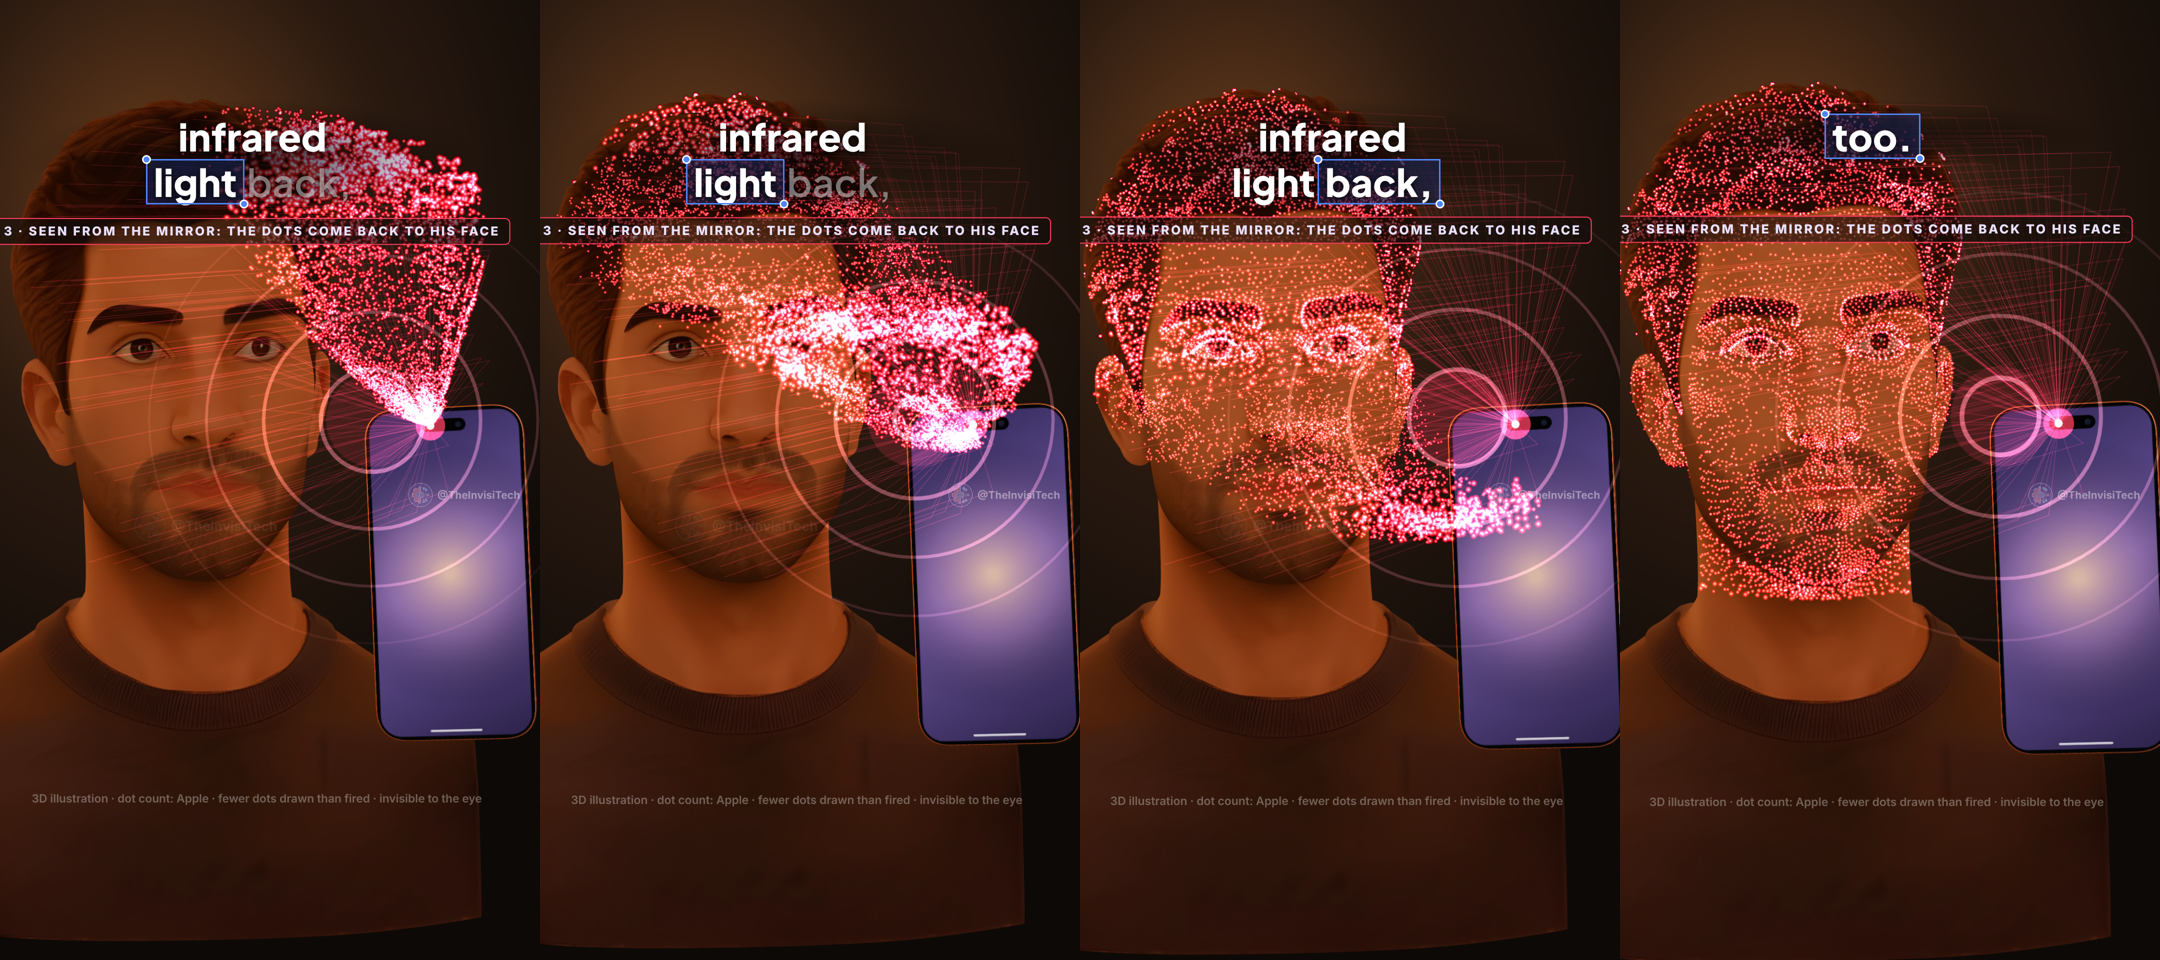
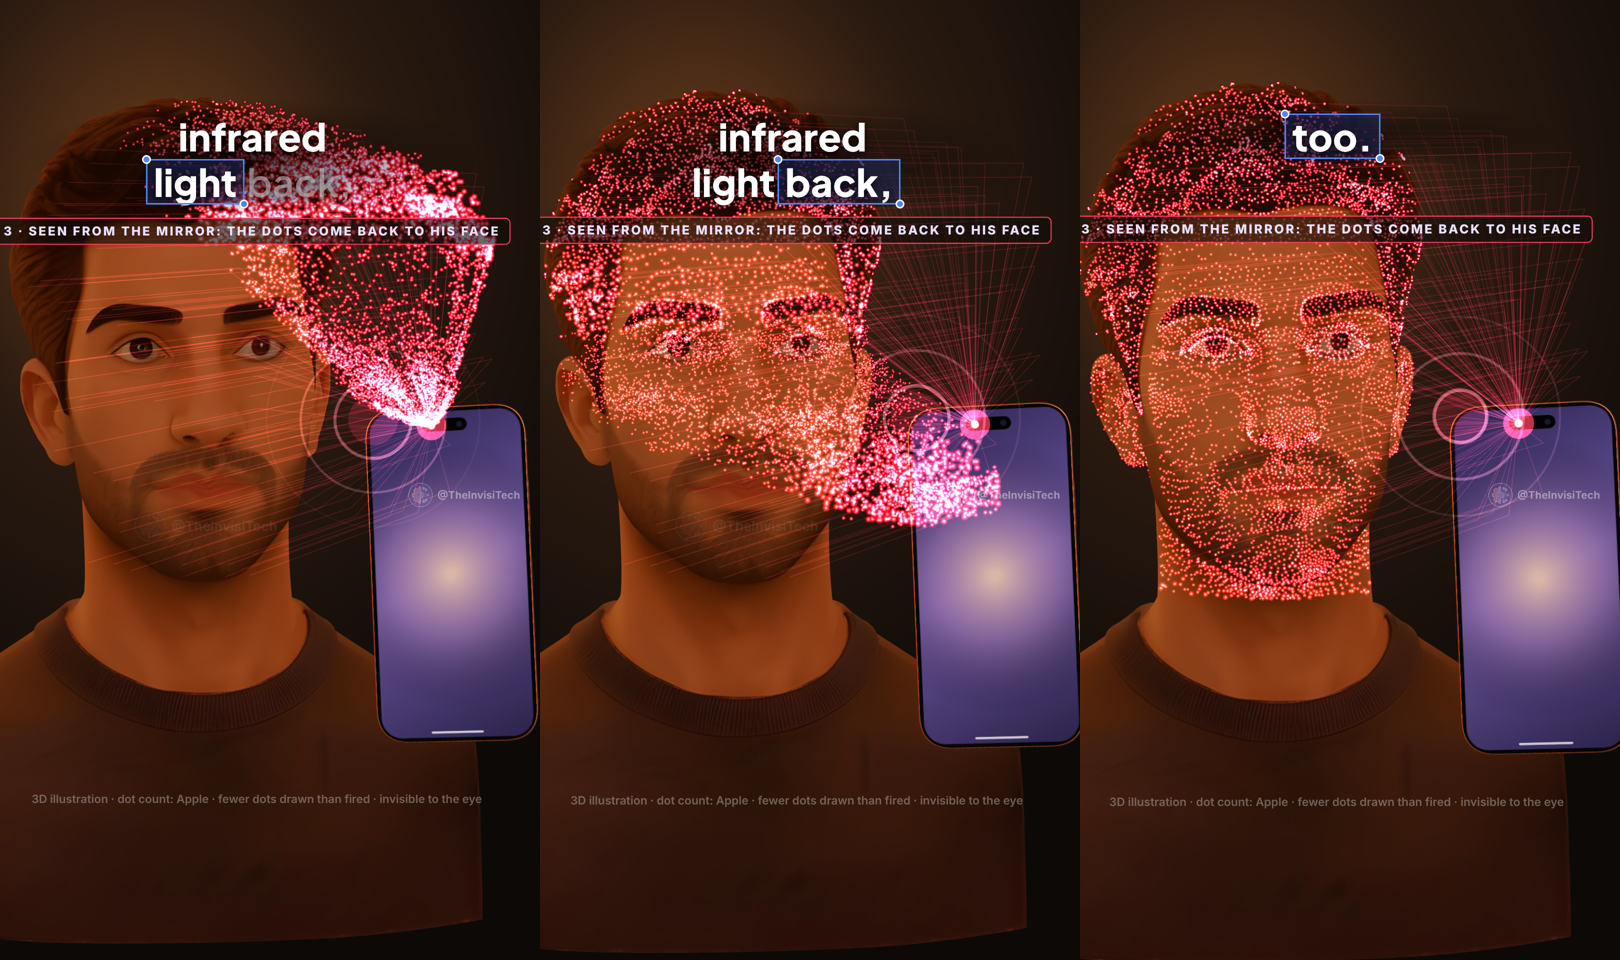
Mirror Short: smaller ripples at the bounce point
Claude-Session: https://claude.ai/code/session_01GXcKc5WnFrVWBsHLe8YpAy

diff --git a/face-id/mirror-short/src/scenes/Orbit3D.tsx b/face-id/mirror-short/src/scenes/Orbit3D.tsx
@@ -185,9 +185,9 @@ const Inner: React.FC<{ g: number; cyan?: number; pov?: number; cam: THREE.Persp
       <lineSegments geometry={rays}><lineBasicMaterial color={C.ir} transparent opacity={rayO} blending={THREE.AdditiveBlending} depthWrite={false} /></lineSegments>
       <points geometry={pts.geo} material={pts.mat} frustumCulled={false} />
       {/* reflecting waves on the glass: rings that spread out from where the light bounces, again and again */}
-      {pov !== undefined && pov > 8 && [0, 1, 2, 3].map((k) => { const u = (((pov - 8) / 22) + k / 4) % 1, r = 10 + 130 * u;
-        return <mesh key={k} position={[noseHit[0], noseHit[1], ZG]}><ringGeometry args={[r, r + 2.6 - 1.6 * u, 72]} /><meshBasicMaterial color="#ff8fa0" transparent opacity={0.6 * (1 - u) * ramp(pov, 8, 12)} blending={THREE.AdditiveBlending} depthWrite={false} side={THREE.DoubleSide} /></mesh>; })}
-      {pov !== undefined && pov > 8 && <mesh position={[noseHit[0], noseHit[1], ZG]}><circleGeometry args={[26, 40]} /><meshBasicMaterial color={C.ir} transparent opacity={0.2 + 0.06 * Math.sin(pov / 2)} blending={THREE.AdditiveBlending} depthWrite={false} side={THREE.DoubleSide} /></mesh>}
+      {pov !== undefined && pov > 8 && [0, 1, 2].map((k) => { const u = (((pov - 8) / 20) + k / 3) % 1, r = 6 + 58 * u;
+        return <mesh key={k} position={[noseHit[0], noseHit[1], ZG]}><ringGeometry args={[r, r + 2 - 1.2 * u, 64]} /><meshBasicMaterial color="#ff8fa0" transparent opacity={0.6 * (1 - u) * ramp(pov, 8, 12)} blending={THREE.AdditiveBlending} depthWrite={false} side={THREE.DoubleSide} /></mesh>; })}
+      {pov !== undefined && pov > 8 && <mesh position={[noseHit[0], noseHit[1], ZG]}><circleGeometry args={[14, 32]} /><meshBasicMaterial color={C.ir} transparent opacity={0.2 + 0.06 * Math.sin(pov / 2)} blending={THREE.AdditiveBlending} depthWrite={false} side={THREE.DoubleSide} /></mesh>}
       <ambientLight intensity={0.5} />
       <directionalLight position={[600, 900, 2200]} intensity={2.2} />
       <pointLight position={[-700, 900, 900]} intensity={3} color="#ffb060" decay={0} />
